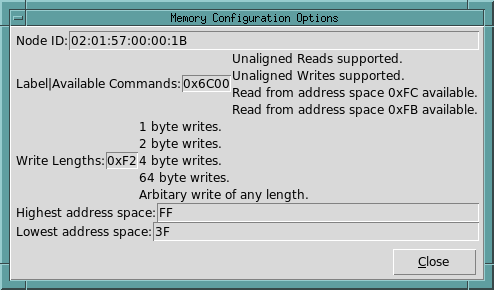
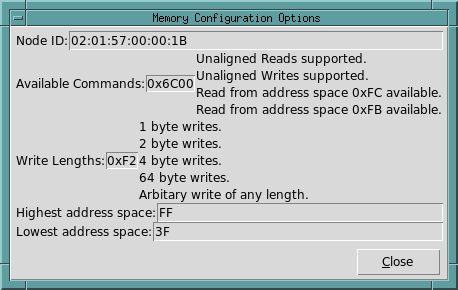
Finish OpenLCB reference manual
git-svn-id: http://svnlocal.deepsoft.com/repos/svnroot/Deepwoods-Public/ModelRRSystem@2293 3dacd22d-6840-0410-813e-ee3e0c1567db

diff --git a/trunk/Doc/User/OpenLCBReference.h b/trunk/Doc/User/OpenLCBReference.h
@@ -8,7 +8,7 @@
 //  Author        : $Author$
 //  Created By    : Robert Heller
 //  Created       : Fri Mar 11 14:47:43 2016
-//  Last Modified : <160312.2050>
+//  Last Modified : <160313.0926>
 //
 //  Description	
 //
@@ -53,11 +53,19 @@
  * When the OpenLCB program starts it connects as a OpenLCB node to a network 
  * of OpenLCB nodes.  This network could be over a CAN bus network or it could
  * be over an Ethernet network using Tcp/Ip, or using some other form of 
- * networked interconnection.  It could also be be using several different 
- * interconnection network technologies.
+ * networked interconnection.  It could also use different interconnection 
+ * network technologies.
  * @subsection cliopts Command Line Options
  * The OpenLCB program takes some command line options that define how it will 
- * connect to other OpenLCB nodes.  These command line options are:
+ * connect to other OpenLCB nodes.  The first thing that is needed is the 
+ * constructor class for the transport layer that will be used.  This is the
+ * layer that is the software driver for the specific wire protocol layer that 
+ * will be used.  Next are the I/O options used by that constructor.  Usually 
+ * this is the name of the I/O device or other information needed to connect
+ * to the device.  It might also include any additional connection information
+ * like the node identification.
+ * 
+ * These command line options are:
  * @arg -transportname The name of the transport constructor.  A shell wildcard
  * is allowed (but needs to be quoted or escaped).
  * @arg -listconstructors Print a list of available constructors and exit.
@@ -73,13 +81,21 @@
  * It looks like this:
  * @image latex OpenLCB_SelectTransport.png "OpenLCB Transport Selection Dialog" width=4in
  * @image html OpenLCB_SelectTransport.png
+ * This dialog box contains a drop down menu of the available (known) transport
+ * layer constructors, along with buttons to to either select the transport
+ * constructor or to cancel the process.
+ * 
  * After selecting the transport constructor, the options for the transport 
  * constructor are selected with a constructor specific dialog box.  The dialog
  * box for the Grid Connect CAN over USBSerial one looks like this:
  * @image latex OpenLCB_CANGCUSB_Options.png "Grid Connect CAN over USBSerial Options Dialog" width=4in
  * @image html OpenLCB_CANGCUSB_Options.png
+ * This dialog box selects the serial port device name and the Node ID to use
+ * for this connection.  There are buttons to open the connection or to cancel
+ * the operation.
+ * 
  * Once the transport constructor and its options are selected the program 
- * starts and displays the main windor.
+ * starts and displays the main window.
  * @section maingui Main GUI Elements
  * The main window of the application contains a list of nodes on the 
  * network(s) it is connected to.  This looks like this:
@@ -90,32 +106,50 @@
  * shown here:
  * @image latex OpenLCB_MainWindow_OpenTrees.png "OpenLCB Main Window, with the node trees opened" width=5in
  * @image html OpenLCB_MainWindow_OpenTrees.png
+ * The node information tree contains leaf nodes containing information about 
+ * the node, including the name of its manufacturer, its model, and it hardware
+ * and software (firmware) version numbers.  Sometimes nodes can be assigned
+ * user supplied names and descriptions.  This information is also displayed.
+ * 
  * The Memory Configuration and CDI protocol items can be clicked to open up
  * configuration tools.
  * @subsection conf Configuration Tools
  * There are two configuration tools available.  A simple memory read/write 
  * tool and a structured configuration tool that uses a GUI generated from the
- * CDI information supplied by the node itself.
+ * CDI information supplied by the node itself.  
  * @subsubsection ConfigOptions Memory Configuration Options
  * The simple memory read/write tool provides a map of what sorts of memory
  * is available to be configured.  This dialog box looks like this:
  * @image latex OpenLCB_MemoryConfigOpts.png "Memory Configuration Options Display Dialog Box" width=4in
  * @image html  OpenLCB_MemoryConfigOpts.png
+ * This dialog box displays the available commands bitmap, both in hex
+ * and with the textual description of the on bits.  It does the same for the
+ * write lengths.  It also shows the highest and lowest memory spaces and if
+ * there is a name, it displays that too.
  * @subsubsection ConfigMemory Configuration R/W Tool
  * The  simple memory read/write tool is just a simple tool that reads and 
  * writes a block of up to 64 bytes of memory.  The tool looks like this:
  * @image latex OpenLCB_ReadWriteConfigMemory.png "Memory Read/Write Configuration tool" width=4in
- * @image html OpenLCB_ReadWriteConfigMemory.png
+ * @image html OpenLCB_ReadWriteConfigMemory_Small.png
+ * This dialog box displays a block of memory read back as pairs of hex digits.
+ * It has an entry area to enter sequence of bytes in hex to be written to the
+ * node's memory.  There is a space for the count, the starting address, and a
+ * drop down menu of possible spaces to read from or write to.  There are 
+ * buttons to close, read, or write at the bottom.
  * @subsubsection ConfigurationEditor CDI Configuration Tool
  * The other memory configuration tool uses the node supplied XML coded CDI to
  * define the structure of the node's configuration memory.  It creates a 
  * node specific configuration window.  Here is the one created for a 
  * RR-Cirkits Tower-LLC node:
  * @image latex OpenLCB_CDITool.png "A CDI-based configuration screen for a RR-Cirkits Tower-LLC node" width=5in
- * @image html OpenLCB_CDITool.png
+ * @image html OpenLCB_CDITool_Small.png
+ * The generated configuration editor is a generated configuration tool
+ * customized for the selected node.  All of the configuration memory 
+ * locations are labeled and organized for easy access.
  * @subsection event Event Tools
  * In addition to configuring memory, the OpenLCB can be used to manually 
- * insert event reports and to monitor the network for event production.
+ * generate event reports and to monitor the network for event production.
+ * Actuators and sensors can be tested for proper operation.
  * @subsubsection sendevent Send Event Tool
  * Under the @c File menu there is a @b Send @b Event menu item.  This menu 
  * item pops up the send event dialog box, which looks like:
